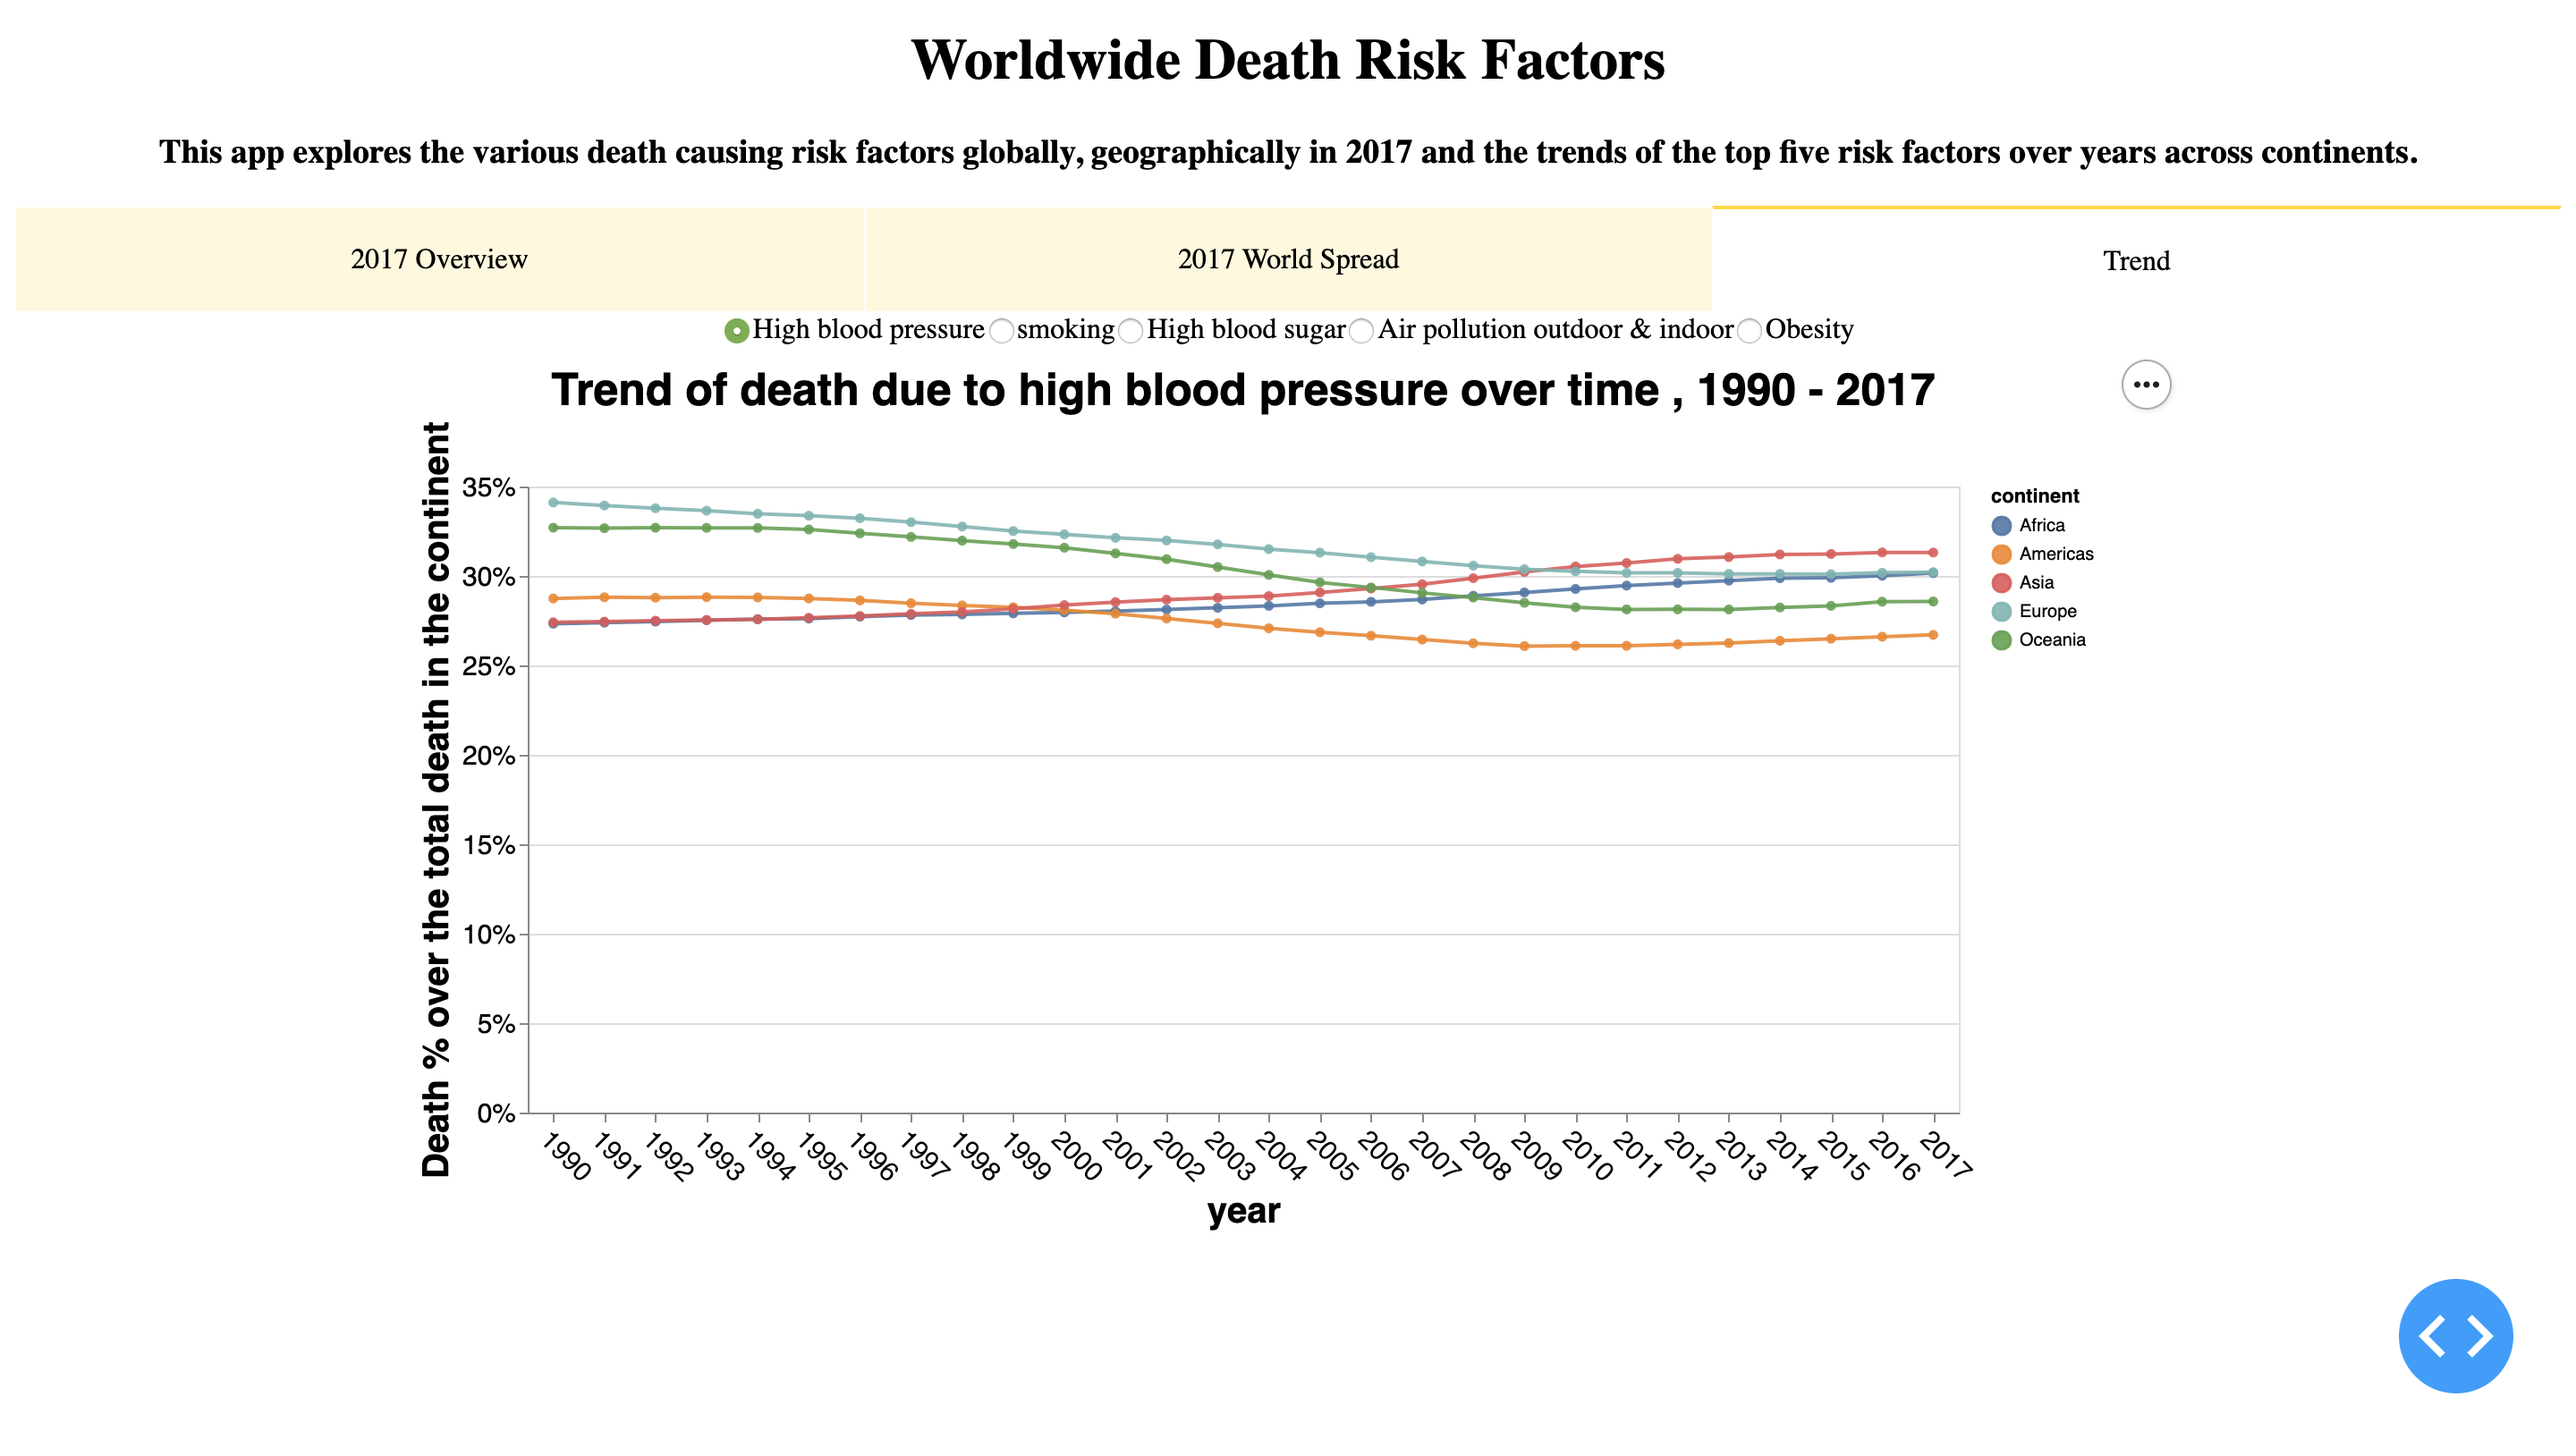
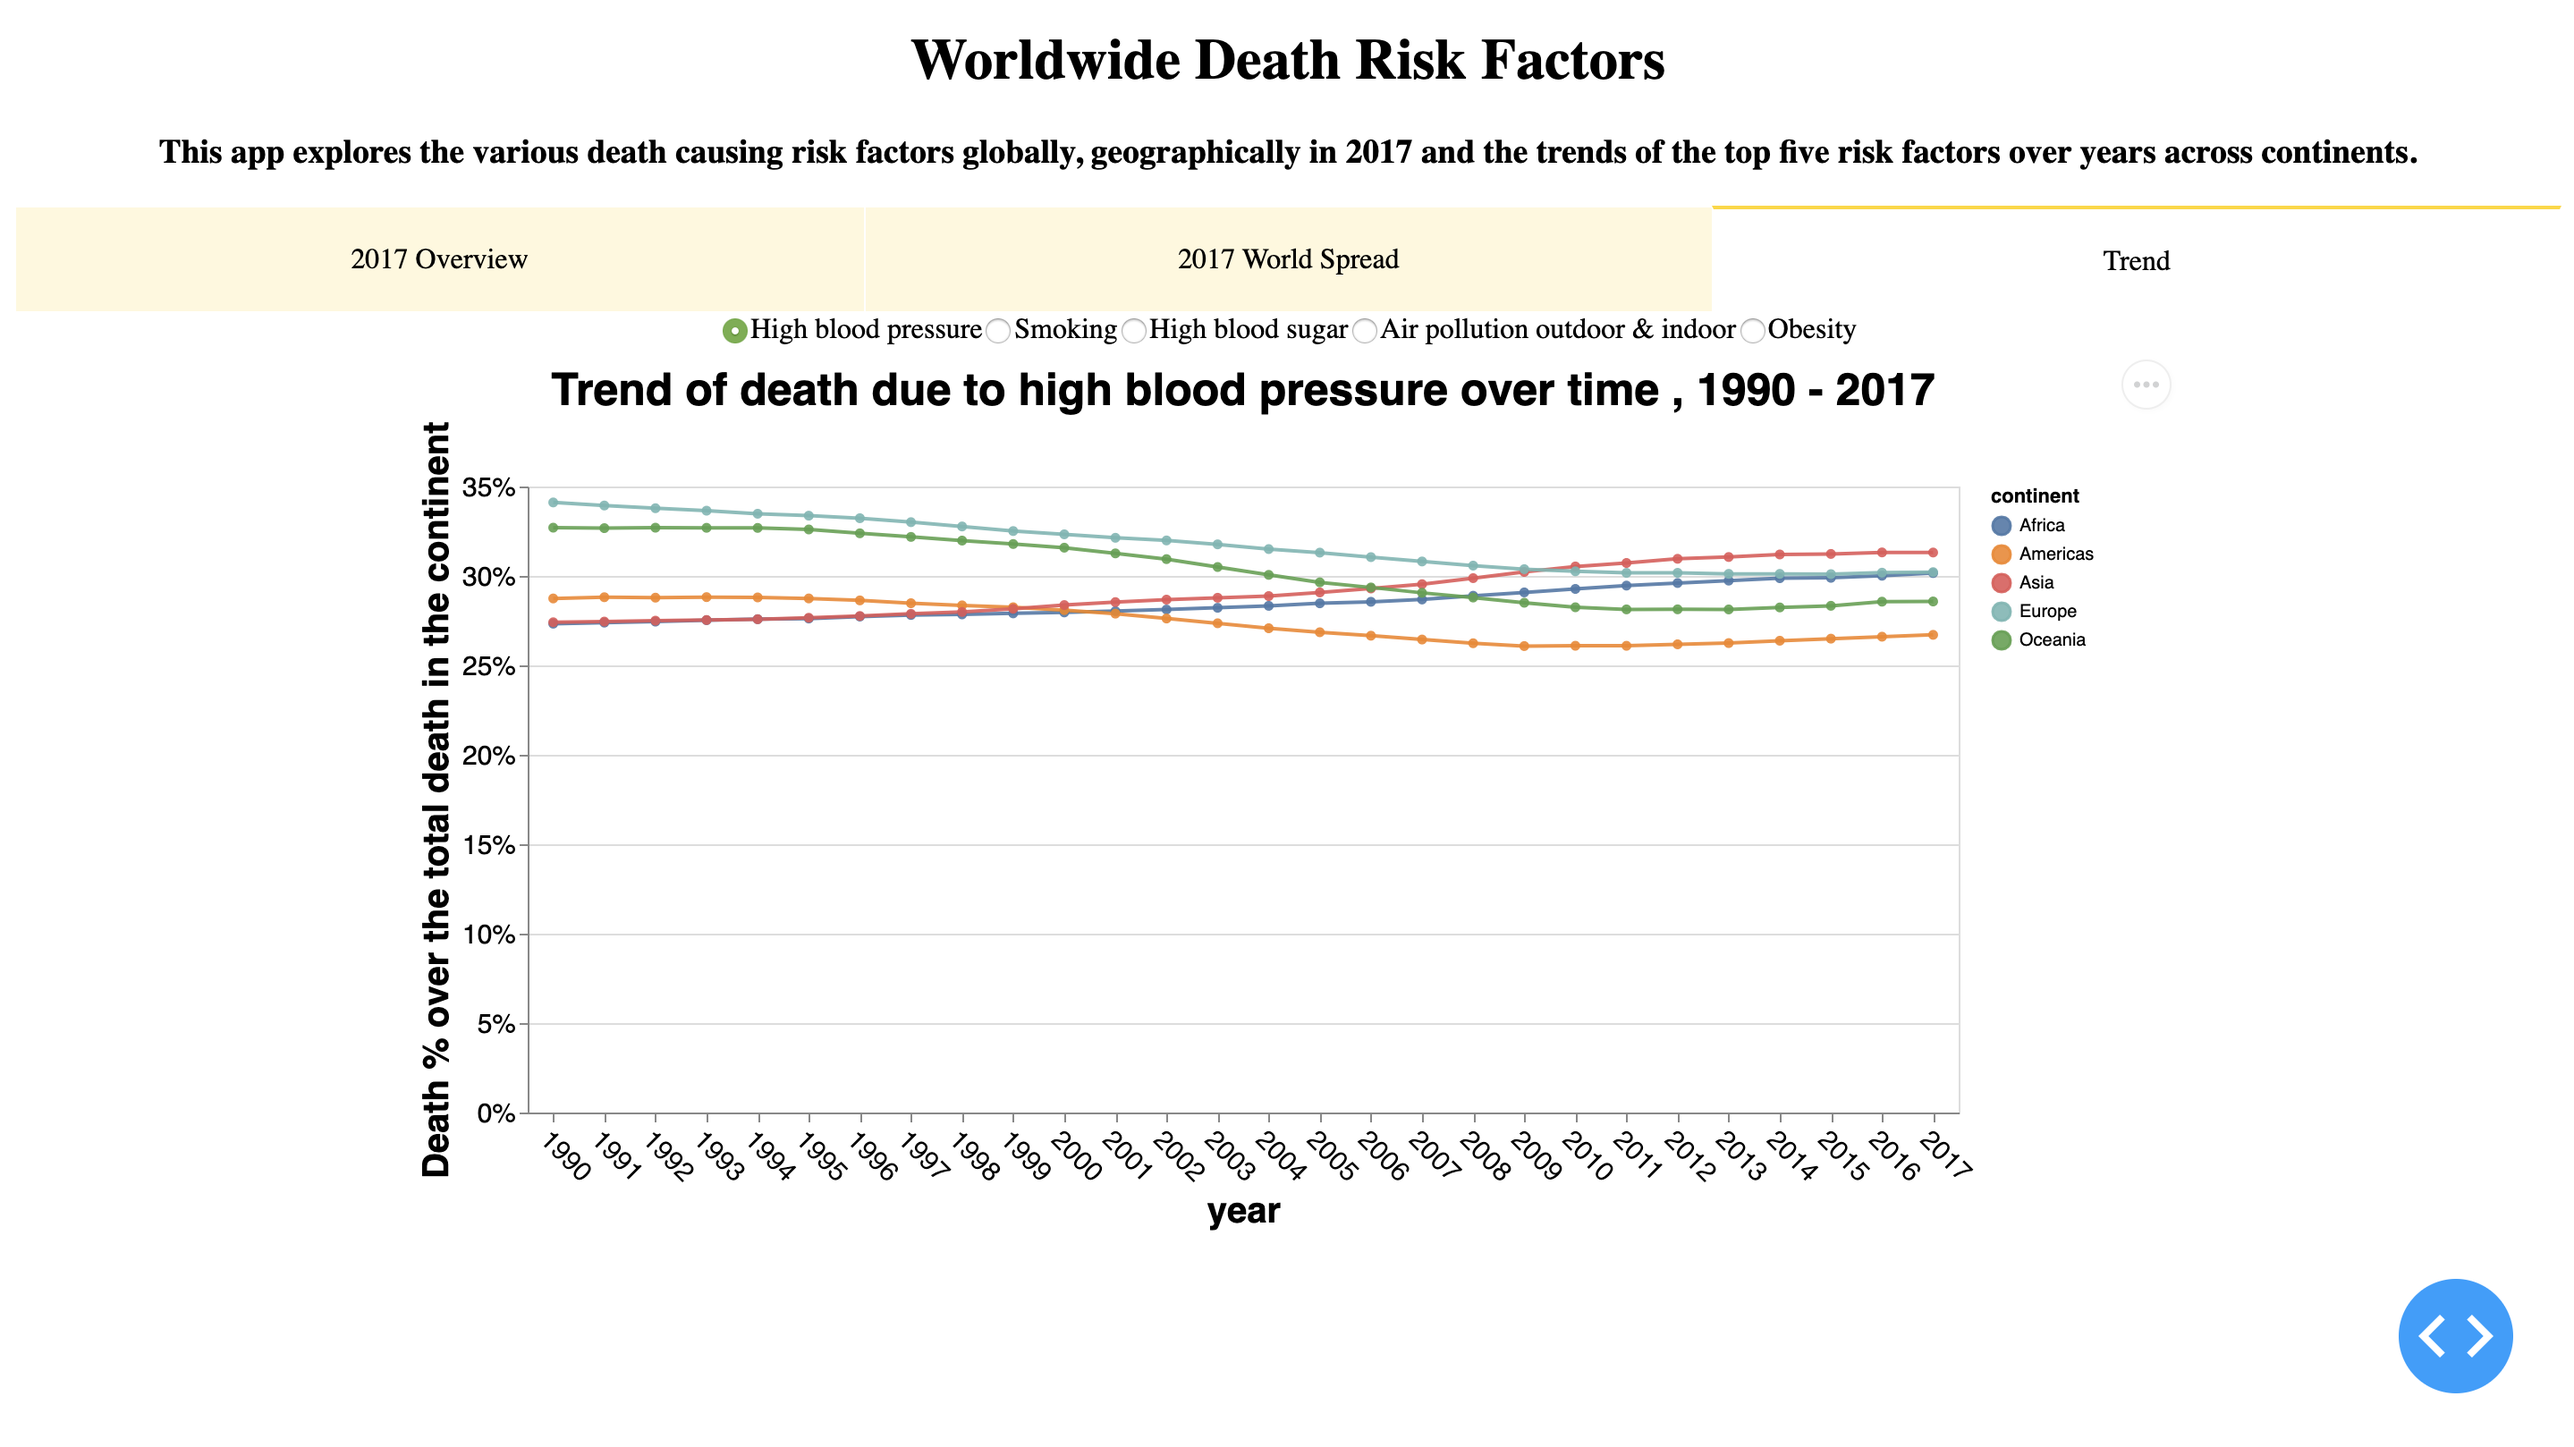
capitalized Smoking and updated the screenshot

diff --git a/app.py b/app.py
@@ -146,7 +146,7 @@ app.layout = html.Div([jumbotron,
             id='dd-chart',
             options=[
                     {'label': 'High blood pressure', 'value': 'properties.high_blood_pressure'},
-                    {'label': 'smoking', 'value': 'properties.smoking'},
+                    {'label': 'Smoking', 'value': 'properties.smoking'},
                     {'label': 'High blood sugar', 'value': 'properties.high_blood_sugar'},
                     {'label': 'Air pollution outdoor & indoor', 'value': 'properties.air_pollution_outdoor_&_indoor'},
                     {'label': 'Obesity', 'value': 'properties.obesity'},
@@ -177,7 +177,7 @@ app.layout = html.Div([jumbotron,
             id='line-fcts',
             options=[
                     {'label': 'High blood pressure', 'value': 'high_blood_pressure'},
-                    {'label': 'smoking', 'value': 'smoking'},
+                    {'label': 'Smoking', 'value': 'smoking'},
                     {'label': 'High blood sugar', 'value': 'high_blood_sugar'},
                     {'label': 'Air pollution outdoor & indoor', 'value': 'air_pollution_outdoor_&_indoor'},
                     {'label': 'Obesity', 'value': 'obesity'},     
